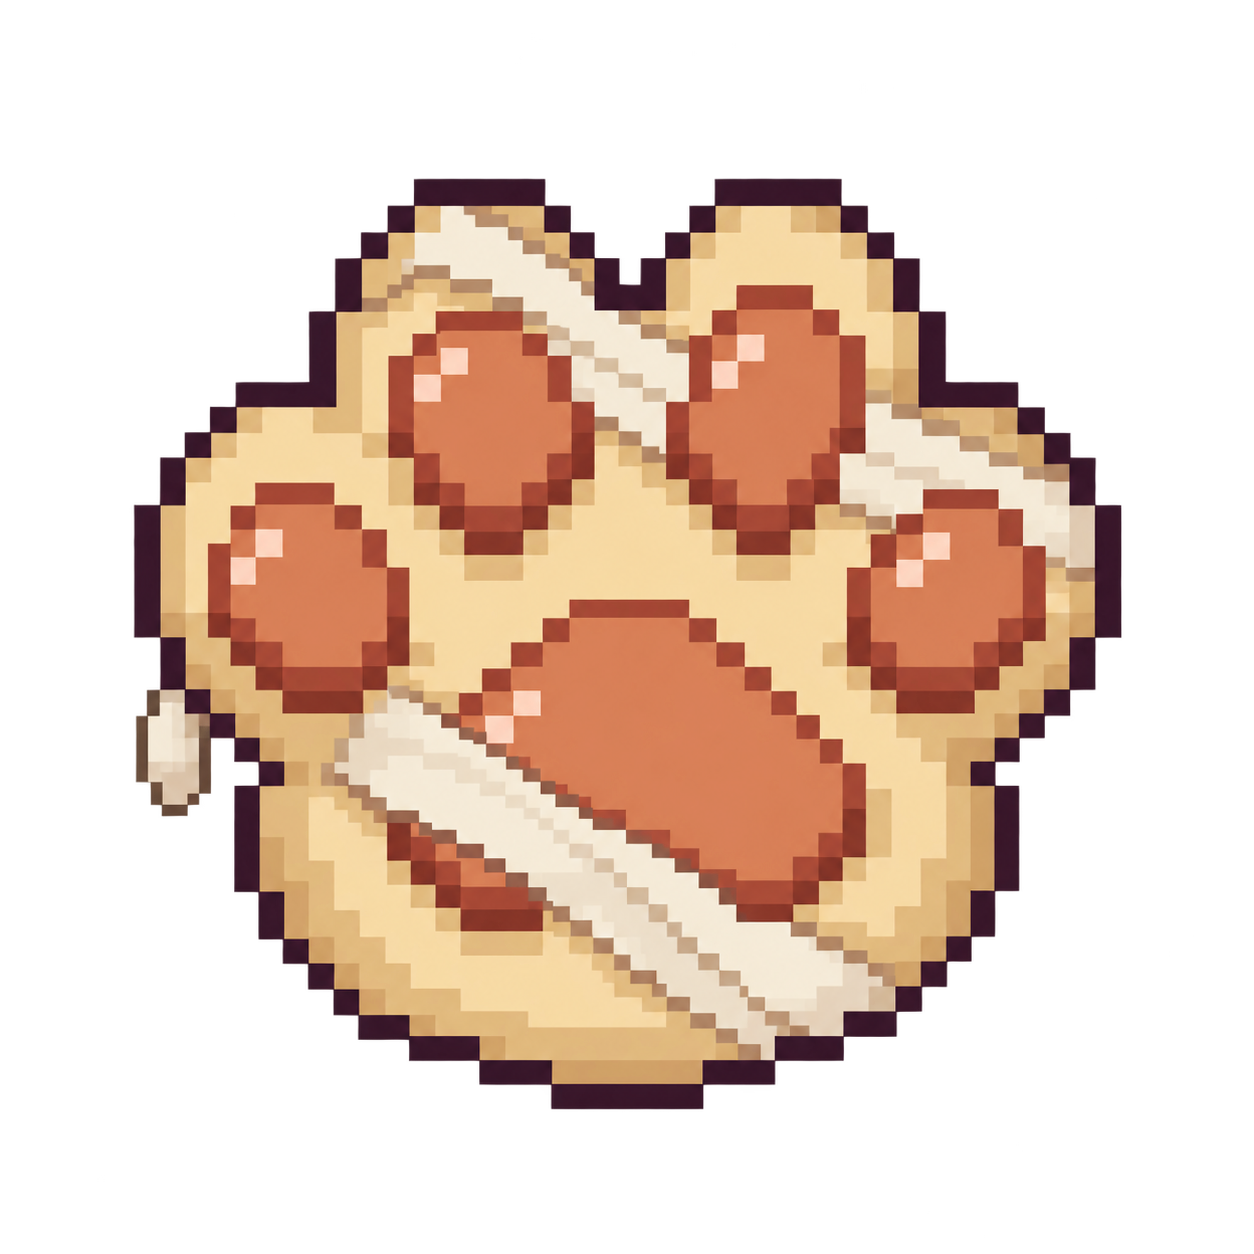
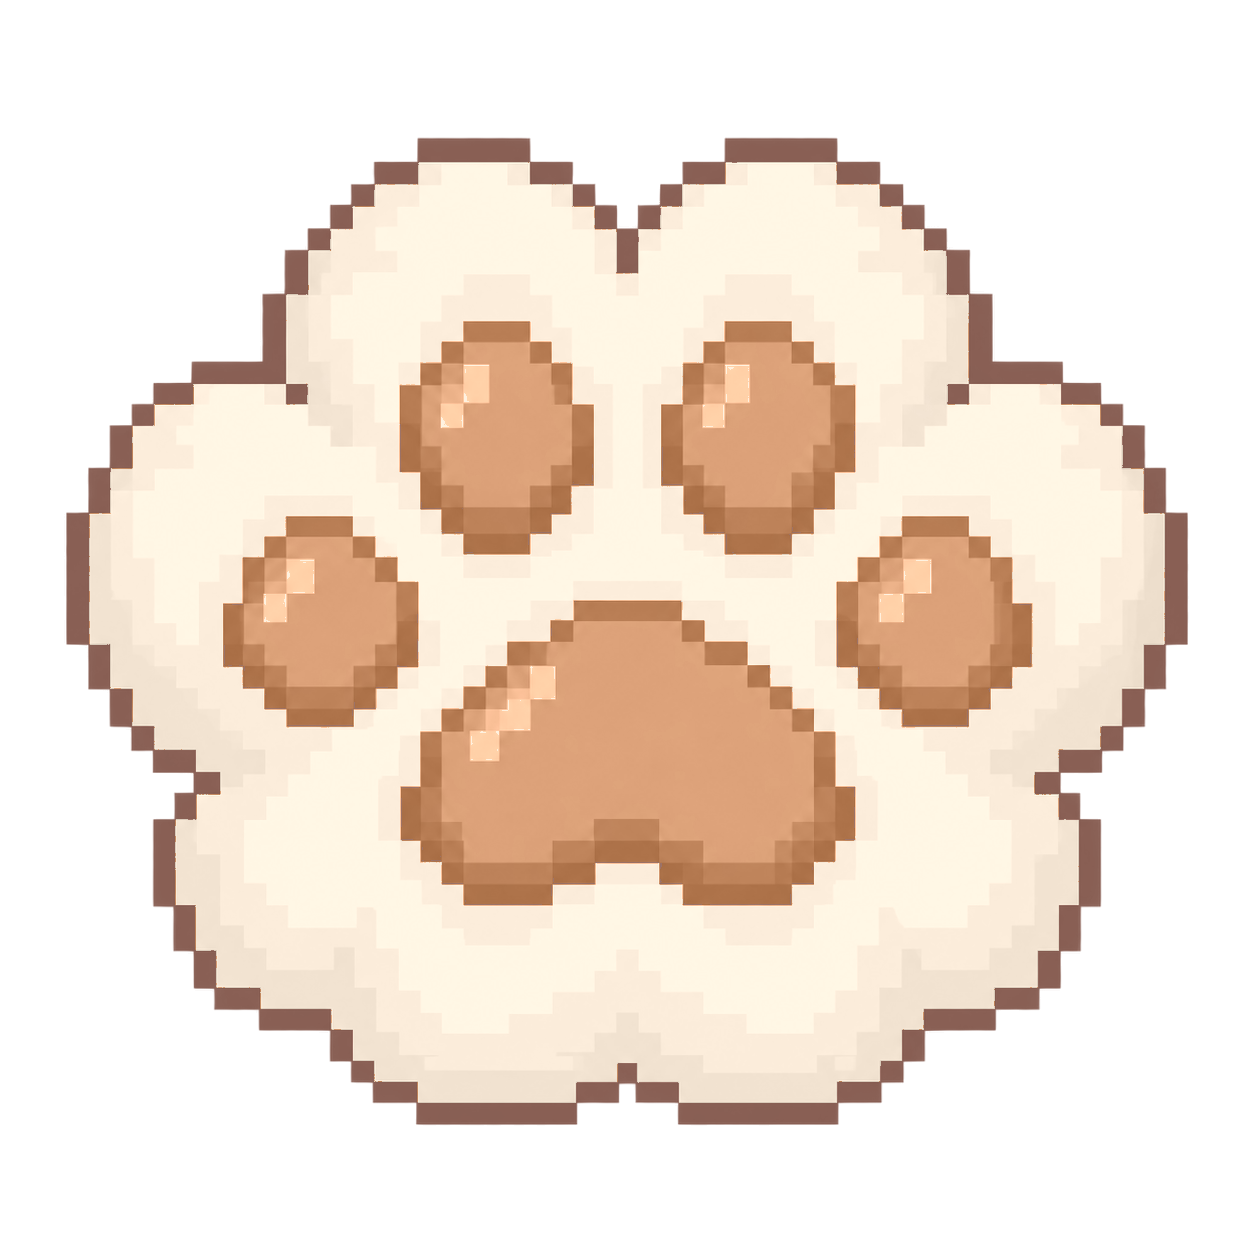
Use accessory-free MyGomi paw skins

diff --git a/src/rouletteRenderer.ts b/src/rouletteRenderer.ts
@@ -34,15 +34,11 @@ const PAW_SKIN_URLS = [
   new URL('../assets/paw-skins/paw-05.png', import.meta.url),
   new URL('../assets/paw-skins/paw-06.png', import.meta.url),
   new URL('../assets/paw-skins/paw-07.png', import.meta.url),
-  new URL('../assets/paw-skins/paw-09.png', import.meta.url),
   new URL('../assets/paw-skins/paw-12.png', import.meta.url),
-  new URL('../assets/paw-skins/paw-13.png', import.meta.url),
   new URL('../assets/paw-skins/paw-14.png', import.meta.url),
   new URL('../assets/paw-skins/paw-15.png', import.meta.url),
   new URL('../assets/paw-skins/paw-18.png', import.meta.url),
-  new URL('../assets/paw-skins/paw-26.png', import.meta.url),
-  new URL('../assets/paw-skins/paw-28.png', import.meta.url),
-  new URL('../assets/paw-skins/paw-29.png', import.meta.url),
+  new URL('../assets/paw-skins/paw-cookie.png', import.meta.url),
 ];
 
 export class RouletteRenderer {

diff --git a/README.md b/README.md
@@ -11,7 +11,7 @@
 - `이름*3` 형식으로 같은 후보의 공 개수 지정
 - 첫 번째, 마지막 또는 지정 순위 당첨자 선택
 - 여러 핀볼 맵과 경기 중 `1x`·`2x`·`5x` 배속
-- 마이곰이 발바닥 시안 16종을 이름별로 고정 배정
+- 복실한 발바닥 11종과 쿠키앤크림 발바닥 1종을 이름별로 고정 배정
 - 원본 이미지의 투명 여백을 감지해 36×36 공에 비율을 유지하며 맞춤
 - 당첨자 확정 후 직접 시작하는 카운트다운 타이머
 - `?names=게임1,게임2` URL 매개변수로 명단 자동 입력
